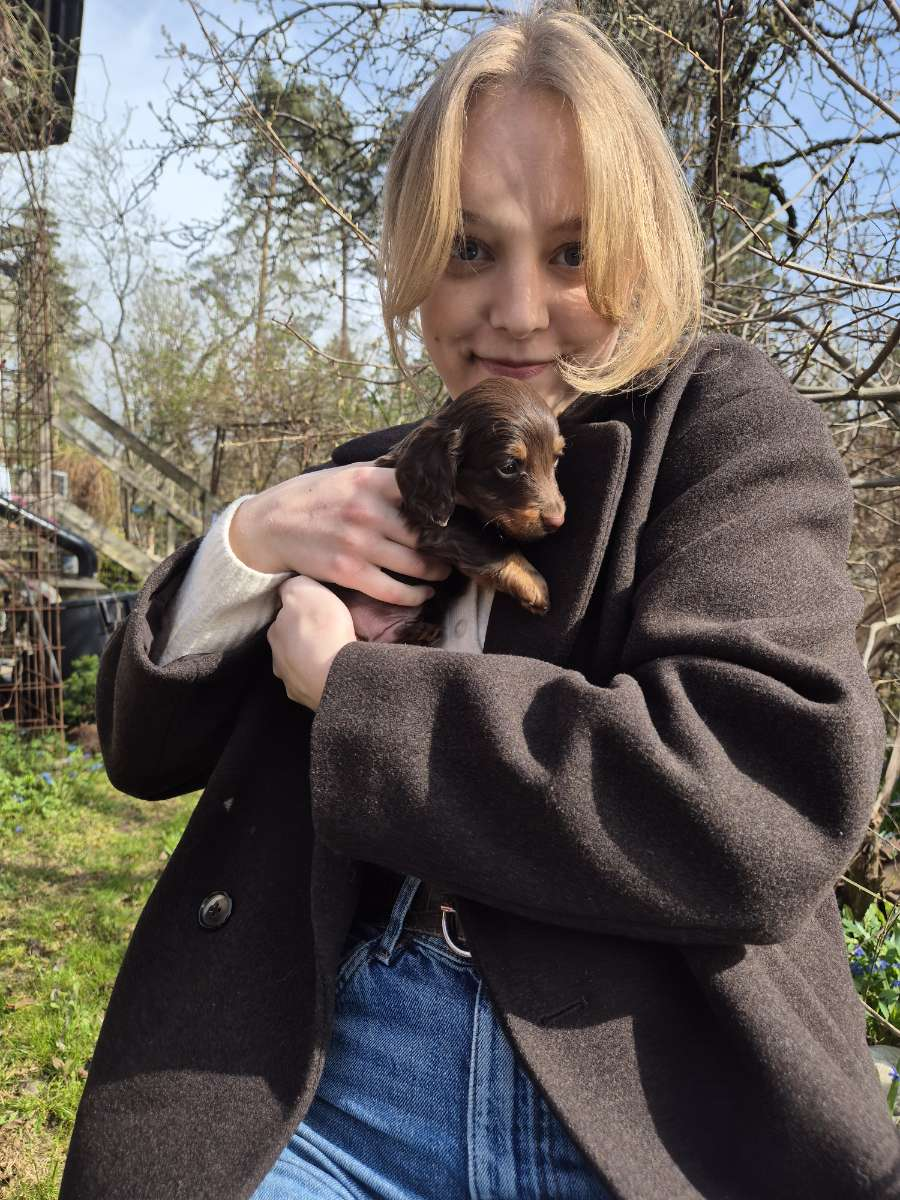
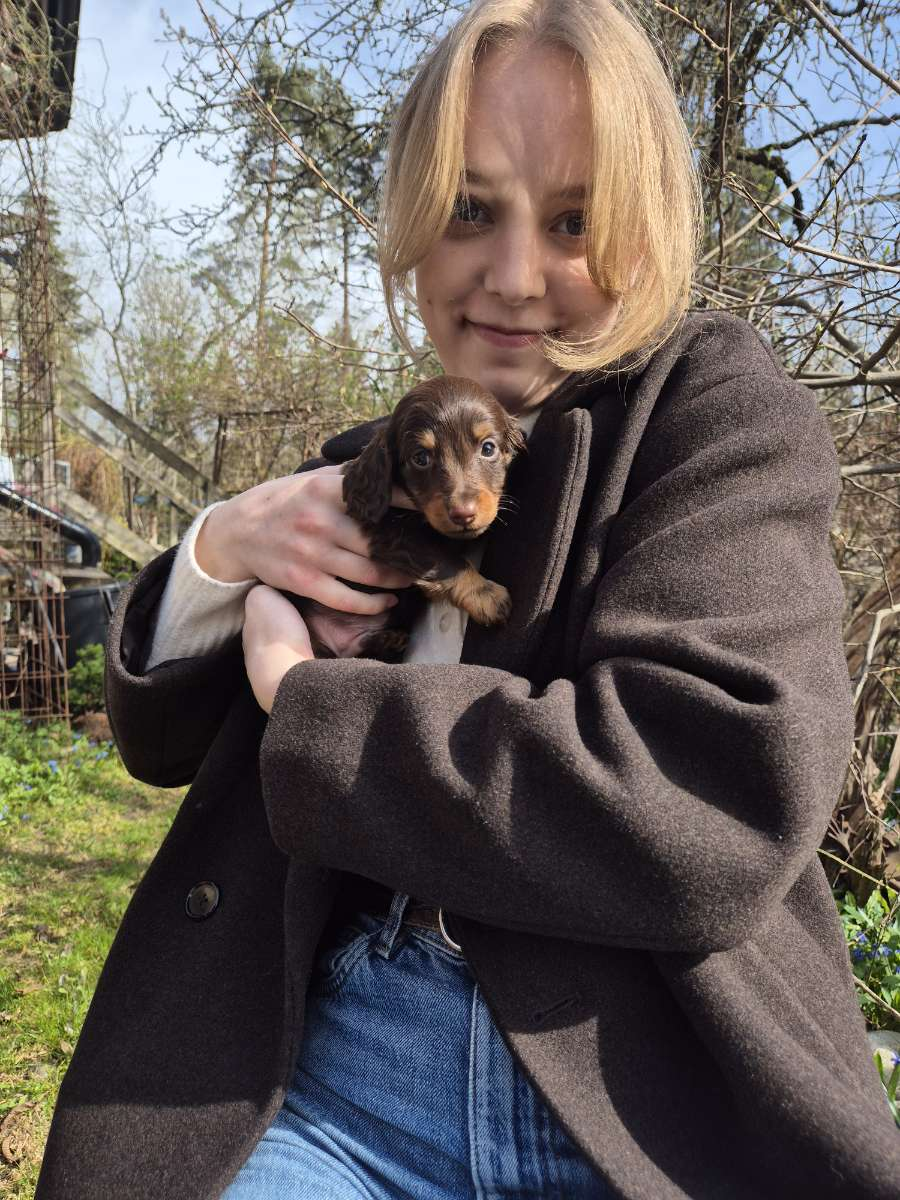
Added text to contact page about that I created the portfolio myself and switched image in hero

diff --git a/src/pages/ContactPage.tsx b/src/pages/ContactPage.tsx
@@ -85,6 +85,10 @@ export default function ContactPage() {
               </div>
             </div>
           </div>
+          <p className="text-md pt-20 w-4/5 text-white" style={sansStyle}>
+            PS. This portfolio was developed by Johanna herself, with a little
+            help from Claude and Figma MCP of course
+          </p>
         </div>
       </main>
     </>
